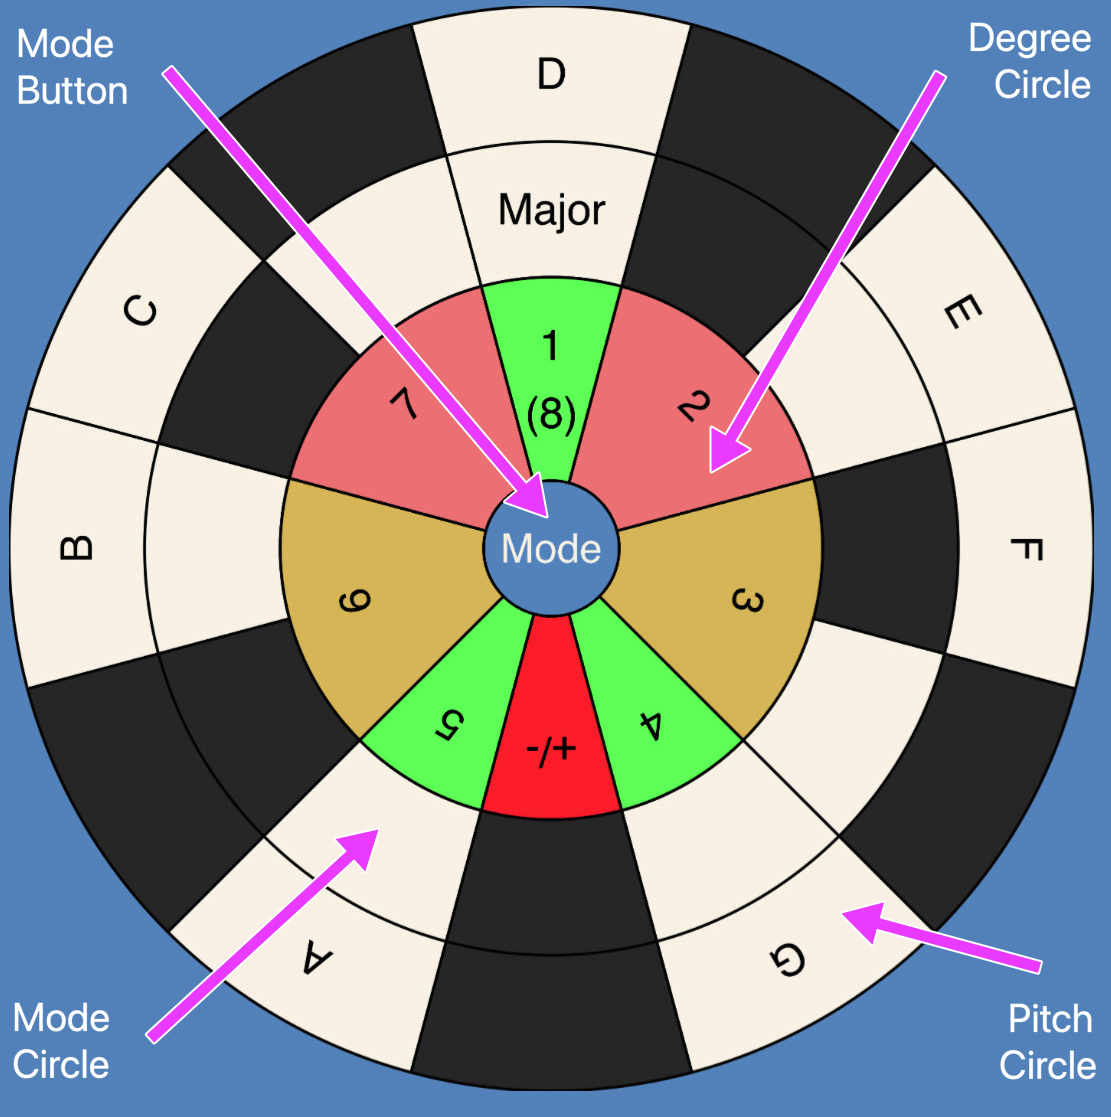
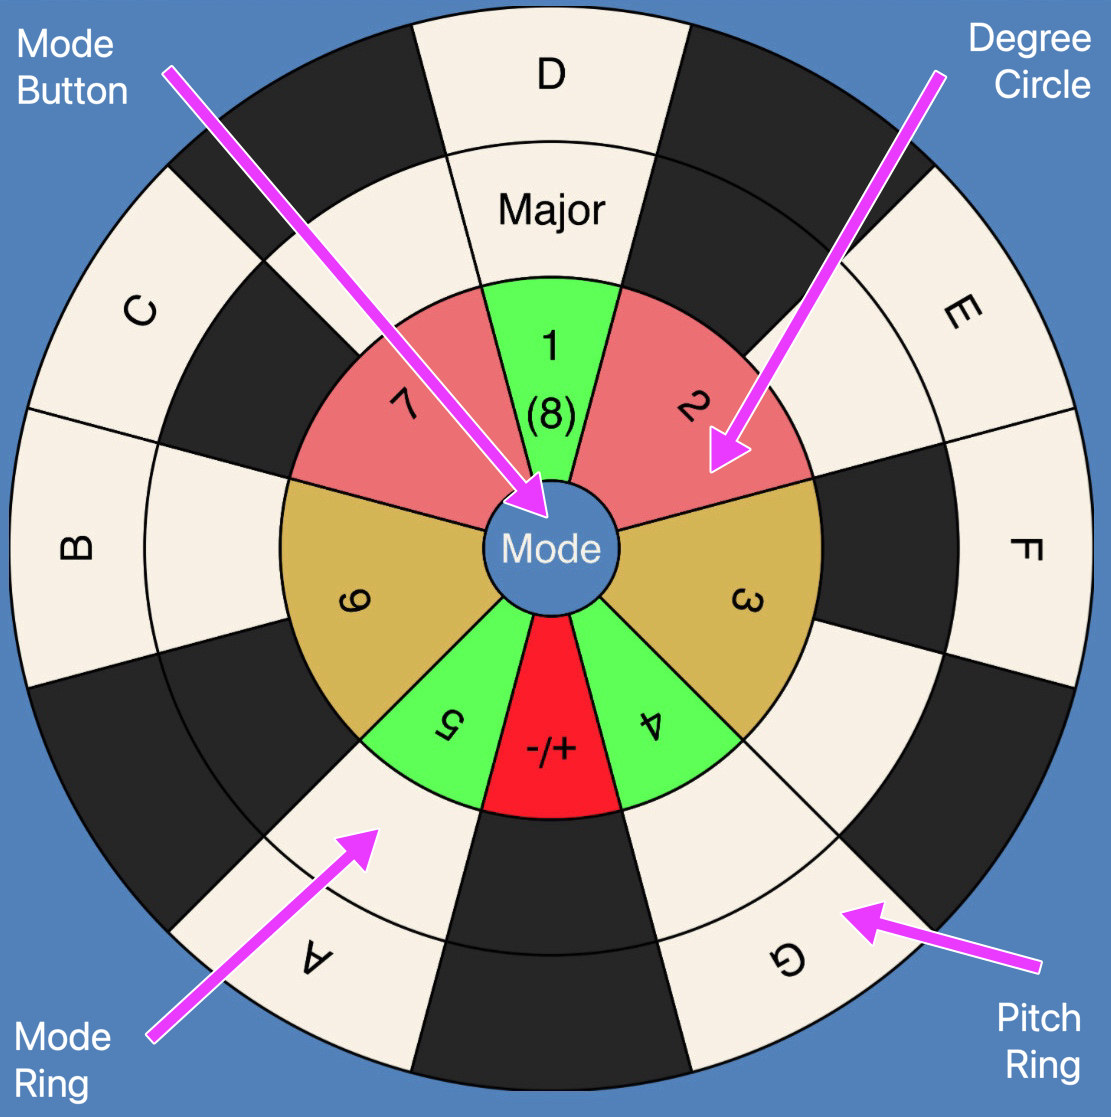
Add files via upload

Changed region(s): [[0.0, 0.8827, 0.1224, 1.0], [0.8875, 0.8827, 1.0, 0.974], [0.4896, 0.3653, 0.5203, 0.3957]]

diff --git a/instrScales.html b/instrScales.html
@@ -39,23 +39,23 @@
          <ol>
             <li> Use the Mode Button to select the mode. </li> <br>
             <li> Line up the "1" on the Degree Circle with the desired mode label 
-                 on the Mode Circle. </li> <br>
-            <li> Line up the note on the Pitch Circle on which the scale is to be 
+                 on the Mode Ring. </li> <br>
+            <li> Line up the note on the Pitch Ring on which the scale is to be 
                  built with the same mode label. </li> <br>
-            <li> For each degree of the scale, read the note on the Pitch Circle
-                 in line with the white "key" on the Mode Circle. </li> <br>
+            <li> For each degree of the scale, read the note on the Pitch Ring 
+                 in line with the white "key" on the Mode Ring. </li> <br>
          </ol>
          </div>
       <h2>  Examples </h2>
          <h3>  D-Major:  D, E, F<sup>&#9839</sup>, G, A, B, C<sup>&#9839</sup>, D  </h3>
-         <img src="IMG_2907.jpeg"> 
+         <img src="IMG_2907.jpg"> 
          <h3>  G-Minor:  G, A, B<sup>&#9837</sup>, C, D, E<sup>&#9837</sup>, F, G </h3>
-         <img src="IMG_2973.jpeg"> 
+         <img src="IMG_2973.jpg"> 
          <h3>  
             B<sup>&#9837</sup>-Mixolydian:  B<sup>&#9837</sup>, C, D, 
             E<sup>&#9837</sup>, F, G, A<sup>&#9837</sup>, B<sup>&#9837</sup> 
          </h3>
-         <img src="IMG_2975.jpeg"> 
+         <img src="IMG_2975.jpg"> 
          <br><br>
       <h2> What's in a Name? </h2>
          <div>

diff --git a/musicSRinstr.html b/musicSRinstr.html
@@ -40,14 +40,14 @@
       <h3> 
           <a href="modeButton.html"> Mode Button </a> <br>
           <a href="degreeCircle.html"> Degree Circle </a> <br>
-          <a href="modeCircle.html"> Mode Circle </a> <br>
-          <a href="pitchCircle.html"> Pitch Circle </a> <br>
+          <a href="modeRing.html"> Mode Ring </a> <br>
+          <a href="pitchRing.html"> Pitch Ring </a> <br>
       </h3>
       <h2> Basic Operation </h2>
       <div>
       <h3>
           Tap/Click once to rotate by one sector. <br><br>
-          Select a particular circle or tap/click in 
+          Tap/Click a particular element or tap/click in 
           the background to rotate the entire unit. <br><br>
           To paraphrase the caterpillar, one side makes it go 
           clockwise, the other makes it go counterclockwise.

diff --git a/pitchRing.html b/pitchRing.html
@@ -12,7 +12,7 @@
             font-size: 3.3em;
          }
          h2 {
-            fonnt-size: 2.0em;
+            font-size: 2.0em;
          }
          a {
             color: White;
@@ -24,10 +24,10 @@
             width: 25%;
          }
       </style>
-      <title> Degree Circle </title> 
+      <title> Pitch Ring </title> 
    </head>
    <body>
-      <h1> Degree Circle </h1>
-      <h2> Multi-Colored Circle with Sectors Labeled 1-7 (8) </h2>
+      <h1> Pitch Ring </h1>
+      <h2> Outer Keyboard-Style Ring </h2>
    </body>
 </html>

diff --git a/modeRing.html b/modeRing.html
@@ -12,7 +12,7 @@
             font-size: 3.3em;
          }
          h2 {
-            fonnt-size: 2.0em;
+            font-size: 2.0em;
          }
          a {
             color: White;
@@ -24,10 +24,10 @@
             width: 25%;
          }
       </style>
-      <title> Degree Circle </title> 
+      <title> Mode Ring </title> 
    </head>
    <body>
-      <h1> Degree Circle </h1>
-      <h2> Multi-Colored Circle with Sectors Labeled 1-7 (8) </h2>
+      <h1> Mode Ring </h1>
+      <h2> Inner Keyboard-Style Ring </h2>
    </body>
 </html>

diff --git a/modeButton.html b/modeButton.html
@@ -8,6 +8,9 @@
             margin-left: 20px;
             font-family: sans-serif;
          }
+         h1 {
+            font-size: 3.3em;
+         }
          h2 {
             font-size: 2.0em;
          }
@@ -24,6 +27,7 @@
       <title> Mode Button </title> 
    </head>
    <body>
+      <h1> Mode Button </h1>
       <h2> Blue Button in the Center </h2>
    </body>
 </html>
